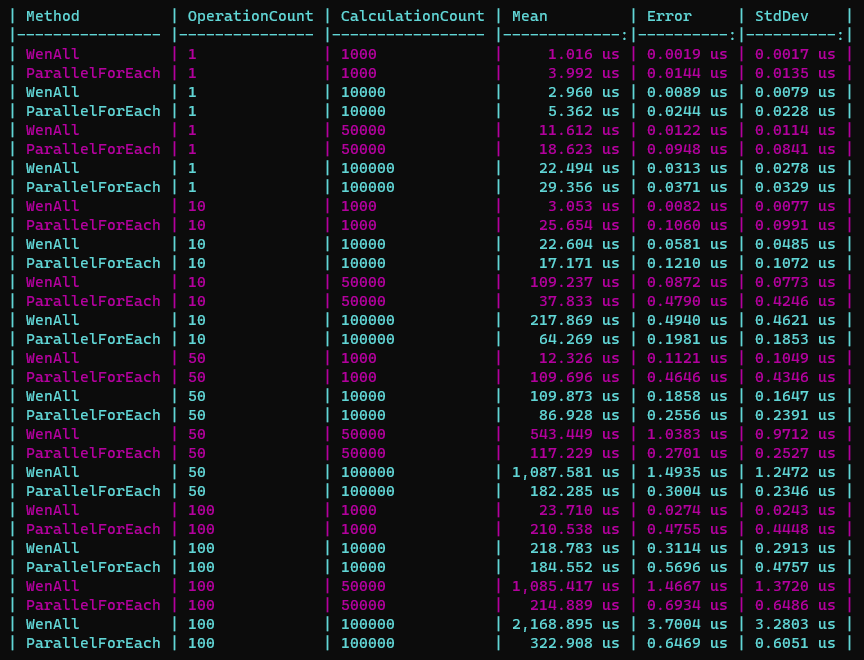
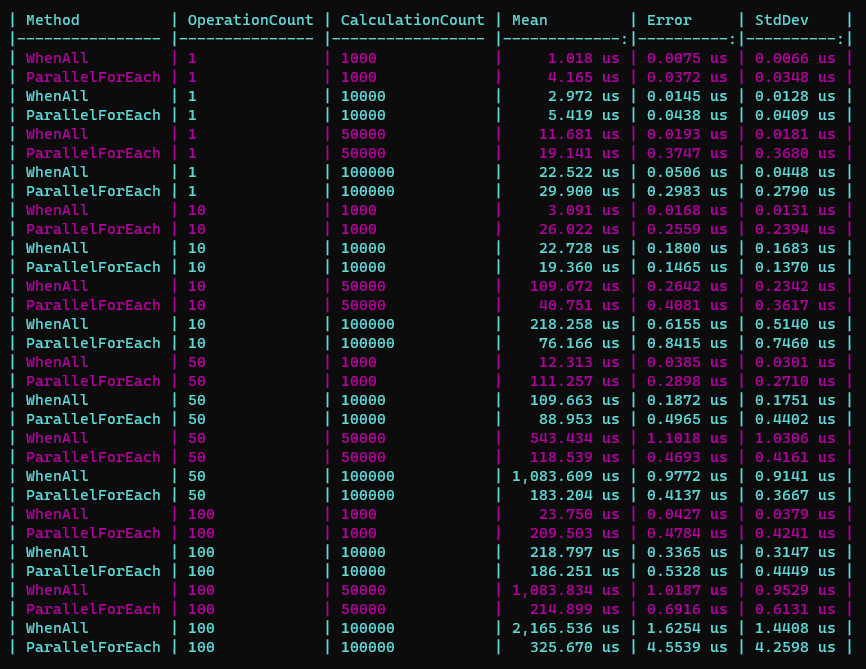
Update ParallelForEachVSTaskWhenAll.md

Changed region(s): [[0.0, 0.0, 1.0, 1.0]]

diff --git a/Basics/Docs/ParallelForEachVSTaskWhenAll.md b/Basics/Docs/ParallelForEachVSTaskWhenAll.md
@@ -33,7 +33,7 @@ public class IOBoundTaskBenchmarks
     public int OperationDurationMs;
 
     [Benchmark]
-    public async Task WenAll()
+    public async Task WhenAll()
     {
         // creating an array of tasks
         var tasks = Enumerable.Range(0, OperationCount).Select(async i =>
@@ -73,7 +73,7 @@ As we can see in both cases, we are performing the same operation the same numbe
 benchmark and determine which approach executed faster.
 
 <p>
-    <img src="./Parallel ForEach VS Task WhenAll Images/Benchmark for IO tasks.png" alt="WenAll Graph">
+    <img src="./Parallel ForEach VS Task WhenAll Images/Benchmark for IO tasks.png" alt="WhenAll Graph">
 </p>
 
 Here, we will focus our attention on the number of operations (`OperationCount`) and the average duration (`Mean`). From the obtained table,
@@ -114,10 +114,10 @@ Parallel.ForEach(Enumerable.Range(1, 100), options, i =>
 });
 ```
 
-## WenAll()
+## WhenAll()
 
 <p>
-    <img src="./Parallel ForEach VS Task WhenAll Images/WhenAllGraph.png" alt="WenAll Graph">
+    <img src="./Parallel ForEach VS Task WhenAll Images/WhenAllGraph.png" alt="WhenAll Graph">
 </p>
 
 Here, the same process occurs as described in the separate section about [Task.WhenAll](./TaskWhenAll.md).
@@ -150,7 +150,7 @@ public class CPUBoundTaskBenchmarks
     public int CalculationCount;
 
     [Benchmark]
-    public async Task WenAll()
+    public async Task WhenAll()
     {
         // creating an array of tasks
         var tasks = Enumerable.Range(0, OperationCount).Select(_ =>
@@ -193,7 +193,7 @@ in terms of the tasks they need to perform.
 Well, let's run our benchmark again to see what the results will be this time.
 
 <p>
-    <img src="./Parallel ForEach VS Task WhenAll Images/Benchmark for CPU tasks.png" alt="WenAll Graph">
+    <img src="./Parallel ForEach VS Task WhenAll Images/Benchmark for CPU tasks.png" alt="WhenAll Graph">
 </p>
 
 Now, this table shows us quite different and interesting results. In terms of the number of tasks and mathematical computations, we can
